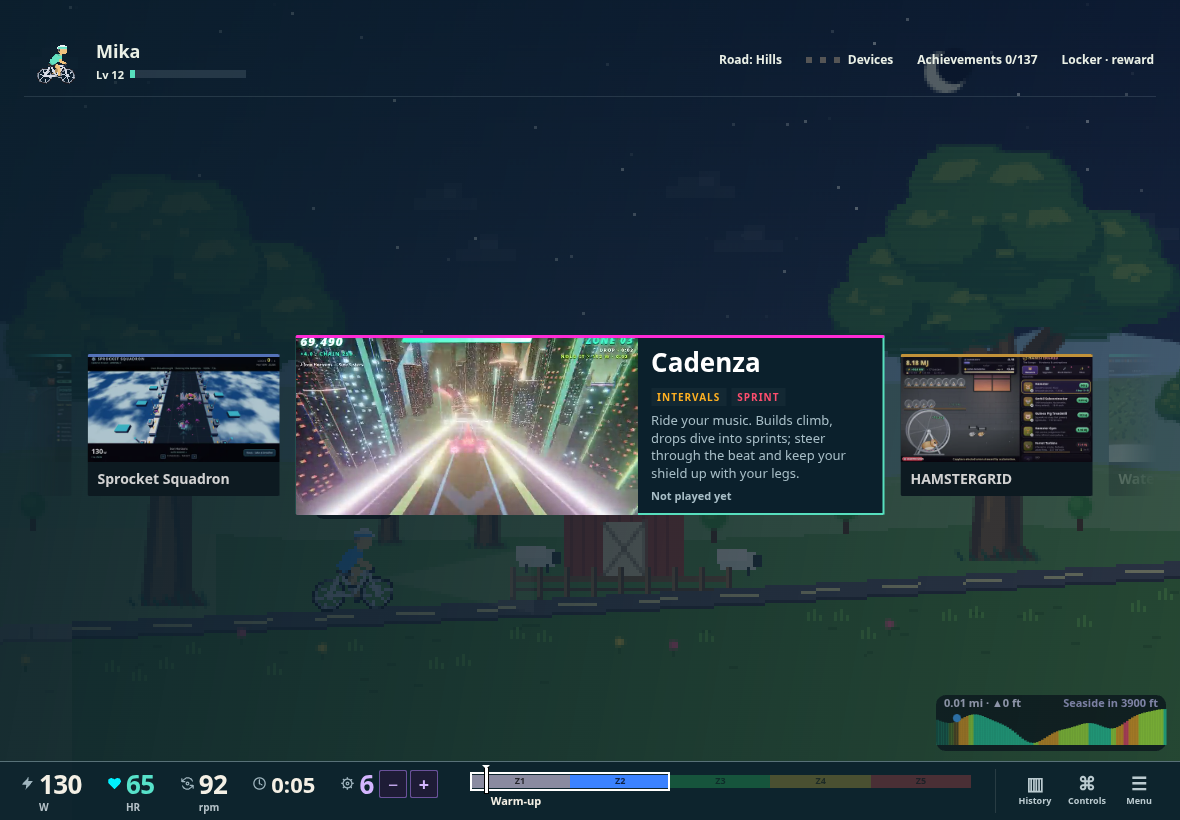
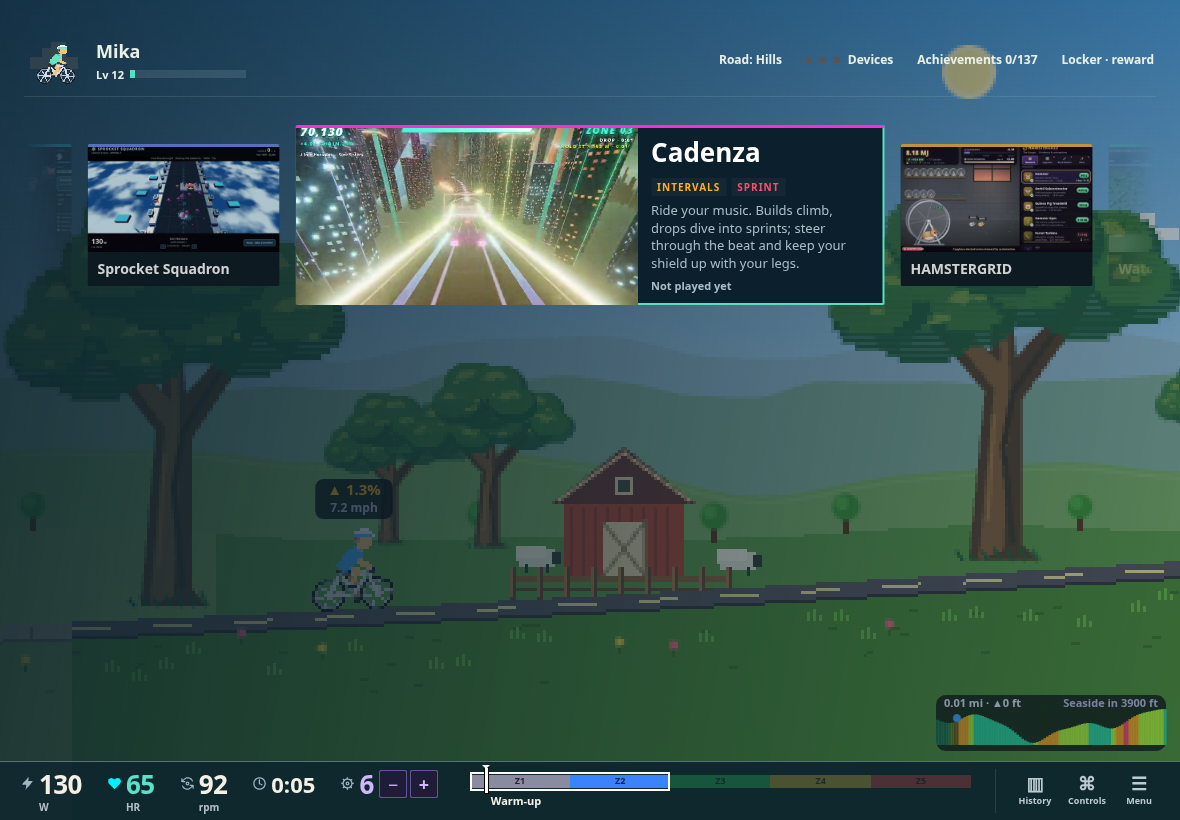
Place arcade carousel below the toolbar to reveal the overworld

diff --git a/src/shell/chrome/chrome.css b/src/shell/chrome/chrome.css
@@ -287,7 +287,8 @@
 .chrome-ui.menu .who {min-width:150px;max-width:220px}.chrome-ui.menu .who>b {font:700 18px var(--ui-font-family)}
 .chrome-ui.menu .topbar .btn {padding:8px 10px;font-size:12px;background:transparent}
 .chrome-ui.menu .topbar .dot {margin-right:0}
-.chrome-ui.menu .carousel {flex:1;min-height:160px}
+/* Size the strip to its cards so the overworld stays visible below. */
+.chrome-ui.menu .carousel {flex:0 0 auto;min-height:0}
 .chrome-ui.menu .gc {border:0;border-radius:var(--ui-size-radius);background:var(--ui-color-background);box-shadow:none}
 .chrome-ui.menu .gc::before {height:3px;box-shadow:none}
 .chrome-ui.menu .gc.active.focused {outline:2px solid var(--ui-color-accent);outline-offset:-2px;box-shadow:none}
@@ -348,13 +349,13 @@
  .chrome-ui .summary-grid {grid-template-columns:minmax(0,1fr);gap:16px}.summary .summary-grid>.panel {padding:16px}
  .chrome-ui .result-card {padding:20px;gap:16px}.chrome-ui .result-stats {gap:16px}
  .chrome-ui.menu {padding:16px 12px;gap:12px}.chrome-ui.menu .who {min-width:110px;max-width:140px}.chrome-ui.menu .topbar {gap:4px}
- .chrome-ui.menu .carousel {min-height:300px}.chrome-ui.menu .gc-info {padding:12px}.chrome-ui.menu .gc-info h3 {font-size:22px}
+ .chrome-ui.menu .gc-info {padding:12px}.chrome-ui.menu .gc-info h3 {font-size:22px}
  .chrome-ui.menu .ui-tooltip {margin-left:auto}.chrome-ui.menu .topbar>.spacer {display:none}
  .chrome-ui.media-picker .mp-row {flex-wrap:wrap}.chrome-ui.media-picker .mp-row>.mp-title {min-width:100px}
  .chrome-ui.media-picker .mp-qrow {flex-wrap:wrap}.chrome-ui.media-picker .mp-qrow>.mp-title {min-width:120px}
 }
 @media(max-height:550px){
- .chrome-ui.menu .carousel {min-height:180px}.chrome-ui.menu .topbar {flex-wrap:nowrap;overflow-x:auto;padding:4px}
+ .chrome-ui.menu .topbar {flex-wrap:nowrap;overflow-x:auto;padding:4px}
  .chrome-ui.menu .topbar>.btn,.chrome-ui.menu .topbar>.who {flex:none}
  .chrome-ui .result-card {padding:20px;gap:12px}.chrome-ui .result-stats .ui-readout>b {font-size:20px}
 }
@@ -370,7 +371,7 @@
 .chrome-ui.media-picker .mp-delete {min-width:var(--ui-size-touch);min-height:var(--ui-size-touch);border-radius:0;background:transparent;color:var(--ui-color-muted);border:0}
 .chrome-ui.menu .topbar:has(.focused) {scroll-padding:4px}
 @media(prefers-reduced-motion:reduce){.chrome-ui.menu .gc {transition:none!important}}
-.chrome-ui.menu .gc.active {position:absolute}
+.chrome-ui.menu .gc.active {position:relative}
 .chrome-ui.menu .arcade-actions {display:flex;align-items:center;flex:1;min-width:0;gap:4px;overflow-x:auto;scroll-padding:4px;padding:4px}
 .chrome-ui.menu .arcade-actions>.btn,.chrome-ui.menu .arcade-actions>.arcade-help {flex:none;white-space:nowrap}
 .chrome-ui.menu .projector {text-shadow:none;box-shadow:none}
@@ -395,3 +396,8 @@
 }
 .drivein .di-card>* {border-radius:var(--ui-size-radius);background:color-mix(in srgb,var(--ui-color-background) 85%,transparent);color:var(--ui-color-text)}
 .drivein .di-bar>button {min-width:var(--ui-size-touch);min-height:var(--ui-size-touch);border:0;border-radius:var(--ui-size-radius);background:transparent;color:var(--ui-color-text);box-shadow:none}
+/* Short landscape cards keep their image beside the details. */
+@media(max-height:550px) and (min-width:761px){
+ .chrome-ui.menu .carousel.narrow .gc.active {grid-template-columns:58fr 42fr}
+ .chrome-ui.menu .carousel.narrow .gc.active .gc-media {aspect-ratio:auto}
+}

diff --git a/docs/visual-polish/chrome/README.md b/docs/visual-polish/chrome/README.md
@@ -20,7 +20,7 @@ Canonical design rules and integration examples: [UI style guide](../../UI_STYLE
 | Result banner | [Capture](desktop-result.png) | [Capture](phone-result.png) | Verified in browser matrix |
 | Ride summary | [Capture](desktop-summary.png) | [Capture](phone-summary.png) | Verified in browser matrix |
 | Achievements page | [Capture](desktop-achievements.png) | [Capture](phone-achievements.png) | Verified in browser matrix |
-| Arcade selector | [Capture](desktop-arcade.png) | [Capture](phone-arcade.png) | Verified in browser matrix |
+| Arcade selector | [Capture](desktop-arcade.png) | [Capture](phone-arcade.png) | [Capture](landscape-arcade.png) |
 | Music browser | [Capture](desktop-media.png) | [Capture](phone-media.png) | Verified in browser matrix |
 | Controls guide | [Capture](desktop-controls.png) | [Capture](phone-controls.png) | Verified in browser matrix |
 | Loading | [Capture](desktop-loading.png) | [Capture](phone-loading.png) | Verified in browser matrix |
@@ -32,7 +32,7 @@ Canonical design rules and integration examples: [UI style guide](../../UI_STYLE
 - New/edit rider: flat scrolling settings rows, a live rider preview and reachable Save/Cancel. Touch color choices have 44px targets; delete and backup actions remain available. Aim is removed from both forms without altering saved aim behavior.
 - Pause: a left sheet with vertical navigation, flat settings and clear Resume. Retains help/history/restart/finish, fake-bike instructions when applicable and game-specific actions. Long menus scroll.
 - Achievements: a temporary upper-right banner with a pixel trophy, unlocked goal and bonus XP; clears after six seconds. The earning and saving rules are unchanged.
-- Remaining chrome: result/summary/achievement pages, selector toolbar/carousel, music library/queue/preview, controls help and loading/error states share canonical DOM widgets and token values. Phone music uses Browse/Queue/Preview tabs; [queue](phone-media-queue.png) and [preview](phone-media-preview.png) captures show the other panels. Summary supports controller scrolling; results and summary use the rider's units. Carousel cards start at their measured size and share a centerline; toolbar help escapes overflow clipping.
+- Remaining chrome: result/summary/achievement pages, selector toolbar/carousel, music library/queue/preview, controls help and loading/error states share canonical DOM widgets and token values. Phone music uses Browse/Queue/Preview tabs; [queue](phone-media-queue.png) and [preview](phone-media-preview.png) captures show the other panels. Summary supports controller scrolling; results and summary use the rider's units. Carousel cards start at their measured size, share a centerline and sit immediately below the toolbar in a strip sized to their content, leaving the overworld below; short landscape uses a side-by-side card; toolbar help escapes overflow clipping.
 - Physical controller labels only appear with an attached controller. All real buttons retain at least 44px height; instrument readings retain the existing compact HUD. Mobile sheets use a stronger backdrop for legibility.
 
 ## Reproduce

diff --git a/src/shell/chrome/NOTES.md b/src/shell/chrome/NOTES.md
@@ -12,4 +12,4 @@
 - Verification: shell tests, TypeScript and production build. Captures in `docs/visual-polish/chrome/` at 1180×820, 390×844 and 844×390. Real Bluetooth/iOS remains a hardware check.
 - Results/summary/achievements, arcade toolbar/carousel, media panels, controls guide and loading/error states use shared widgets/tokens. Summary is D-pad scrollable; result and summary share rider-selected units.
 - Phone/portrait music uses Browse/Queue/Preview tabs; controller focus selects the relevant panel. Search still takes over the visual viewport while the keyboard is open. Queue/undo/mode/start remain unchanged.
-- Arcade toolbar scrolls horizontally, focused controls scroll into view, carousel cards share a vertical centerline, and help uses a viewport-positioned tooltip outside clipping containers. Game-owned menus stay unchanged.
+- Arcade toolbar scrolls horizontally, focused controls scroll into view, carousel fits its cards immediately below the toolbar (short landscape uses a side-by-side card), cards share a vertical centerline, and help uses a viewport-positioned tooltip outside clipping containers. Game-owned menus stay unchanged.
